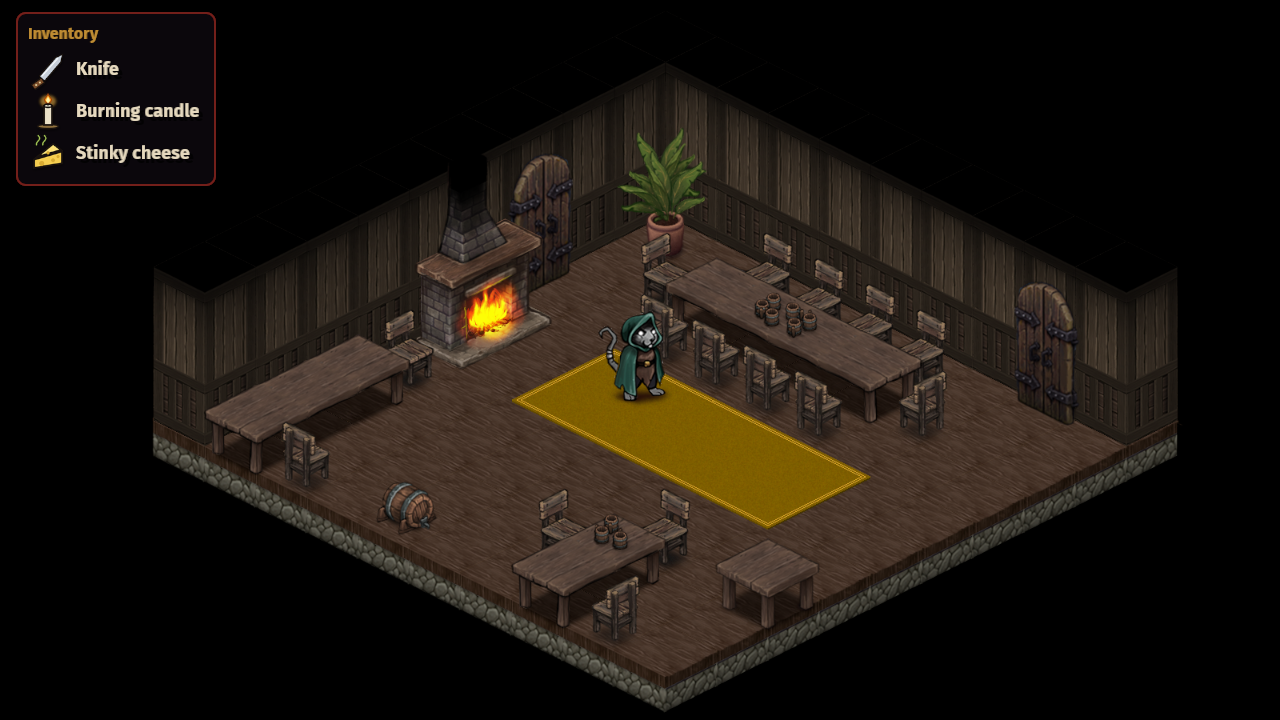
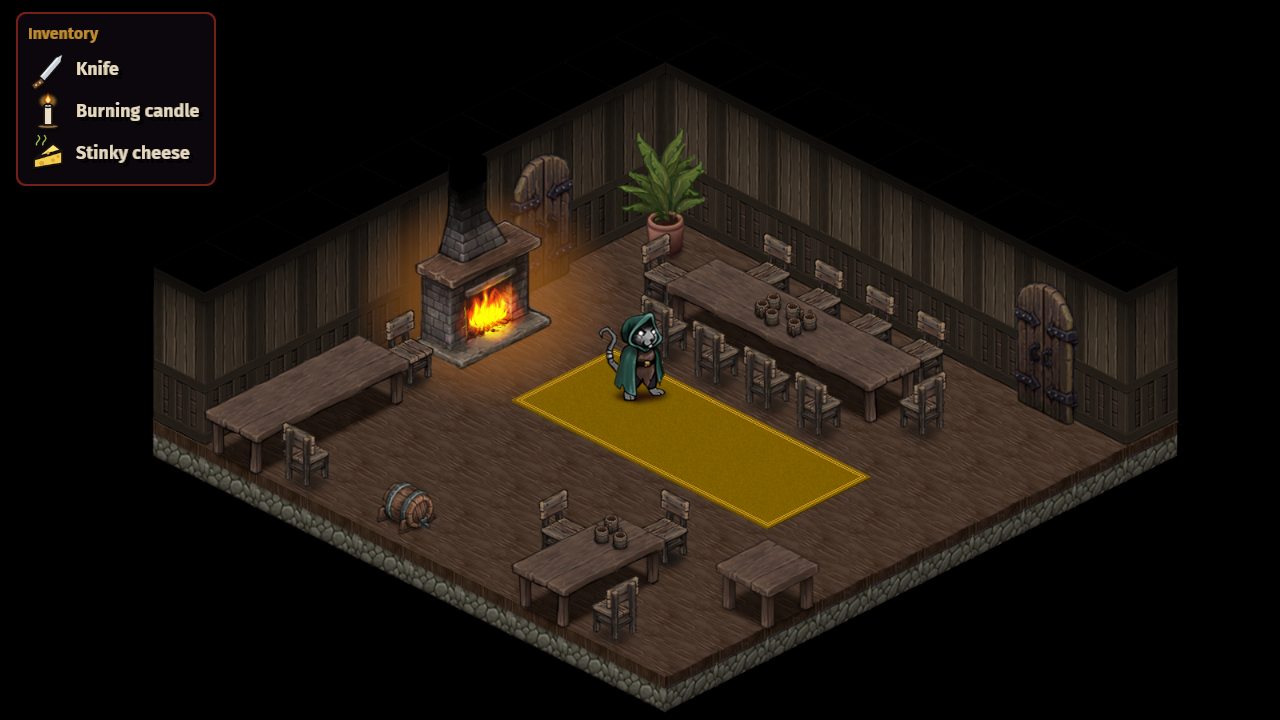
Let the burning fireplace glow and move the ritual room door out of the way

Changed region(s): [[0.2812, 0.275, 0.4688, 0.55]]

diff --git a/src/game/world.rs b/src/game/world.rs
@@ -33,6 +33,13 @@ const FIREPLACE: &str = "tilesets/village_interiors/Iso_Deco_Fireplace_01.png";
 const FIREPLACE_BURNING: &str = "tilesets/macgreg/Iso_Deco_Fireplace_01_burning.png";
 const PENTAGRAM: &str = "tilesets/macgreg/Pentagram.png";
 
+/// Center of the fire in the fireplace image, measured from its bottom-left corner.
+const FIRE_OFFSET: Vec2 = Vec2::new(110.0, 95.0);
+const FIRE_GLOW_SIZE: Vec2 = Vec2::new(360.0, 300.0);
+const FIRE_GLOW_COLOR: Vec3 = Vec3::new(1.0, 0.6, 0.15);
+/// Seconds per pulse of the fire glow.
+const FIRE_GLOW_PERIOD: f32 = 2.4;
+
 const LIBRARIAN_SPEED: f32 = 70.0;
 const LIBRARIAN_SCALE: f32 = 0.95;
 const LIBRARY: &str = "library";
@@ -176,6 +183,10 @@ enum Marker {
     BedFeathers,
 }
 
+/// Warm light pulsing from the fireplace while the fire is burning.
+#[derive(Component)]
+struct FireGlow;
+
 /// Where the player was during the last frame.
 #[derive(Resource, Default)]
 struct RoomTracker {
@@ -209,6 +220,7 @@ impl Plugin for WorldPlugin {
                         update_depth,
                         update_light,
                         update_world_visuals,
+                        (spawn_fire_glow, update_fire_glow).chain(),
                         face_player,
                         update_highlight,
                     )
@@ -959,6 +971,77 @@ fn update_world_visuals(
         } else {
             Visibility::Hidden
         });
+    }
+}
+
+/// A soft round glow, fully opaque in the center and transparent at the edge.
+fn glow_image() -> Image {
+    const SIZE: u32 = 64;
+    let data = (0..SIZE * SIZE)
+        .flat_map(|i| {
+            let p = Vec2::new((i % SIZE) as f32, (i / SIZE) as f32) + 0.5;
+            let d = (p / SIZE as f32 * 2.0 - 1.0).length().min(1.0);
+            let alpha = (1.0 - d * d).powi(2);
+            [255, 255, 255, (alpha * 255.0) as u8]
+        })
+        .collect();
+    Image::new(
+        bevy::render::render_resource::Extent3d {
+            width: SIZE,
+            height: SIZE,
+            depth_or_array_layers: 1,
+        },
+        bevy::render::render_resource::TextureDimension::D2,
+        data,
+        bevy::render::render_resource::TextureFormat::Rgba8UnormSrgb,
+        default(),
+    )
+}
+
+/// Puts a glow behind every fireplace, so it lights up the wall and floor around it.
+fn spawn_fire_glow(
+    mut commands: Commands,
+    tiles: Query<(Entity, &MapTile), Added<MapTile>>,
+    mut images: ResMut<Assets<Image>>,
+    mut glow: Local<Option<Handle<Image>>>,
+) {
+    for (entity, tile) in &tiles {
+        if !tile.image.contains("Fireplace") {
+            continue;
+        }
+        let image = glow.get_or_insert_with(|| images.add(glow_image())).clone();
+        commands.spawn((
+            Sprite {
+                image,
+                custom_size: Some(FIRE_GLOW_SIZE),
+                color: Color::NONE,
+                ..default()
+            },
+            Transform::from_translation(FIRE_OFFSET.extend(-0.05)),
+            Visibility::Hidden,
+            FireGlow,
+            ChildOf(entity),
+        ));
+    }
+}
+
+fn update_fire_glow(
+    time: Res<Time>,
+    progress: Res<Progress>,
+    mut glows: Query<(&mut Sprite, &mut Visibility), With<FireGlow>>,
+) {
+    let phase = time.elapsed_secs() / FIRE_GLOW_PERIOD * std::f32::consts::TAU;
+    // A slow pulse with a slight flicker on top.
+    let pulse = 0.5 + 0.4 * phase.sin() + 0.1 * (phase * 3.7).sin();
+    let alpha = 0.18 + 0.12 * pulse;
+    for (mut sprite, mut visibility) in &mut glows {
+        visibility.set_if_neq(if progress.fire_lit {
+            Visibility::Inherited
+        } else {
+            Visibility::Hidden
+        });
+        let [r, g, b] = FIRE_GLOW_COLOR.to_array();
+        sprite.color = Color::srgba(r, g, b, alpha);
     }
 }
 
